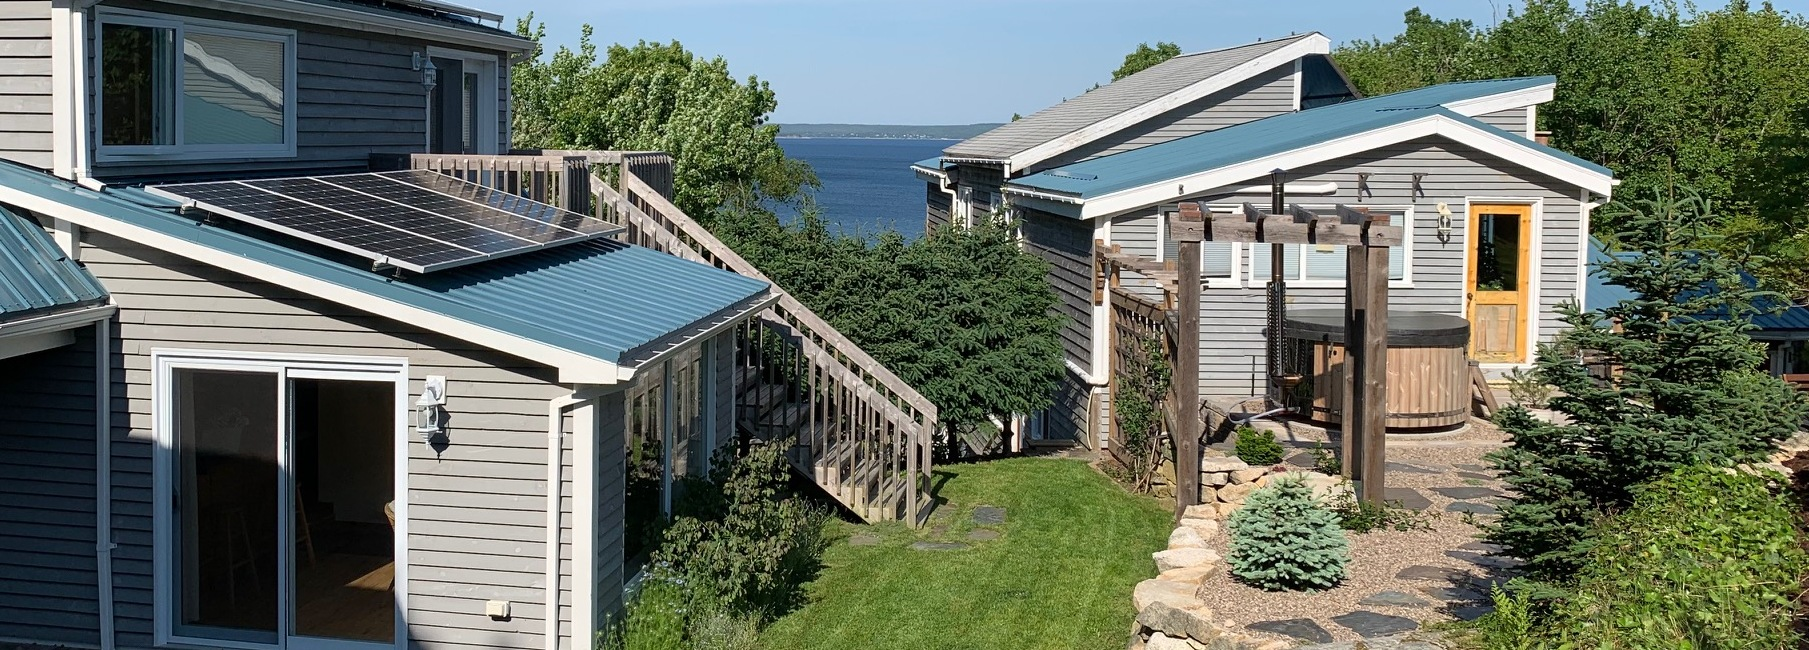
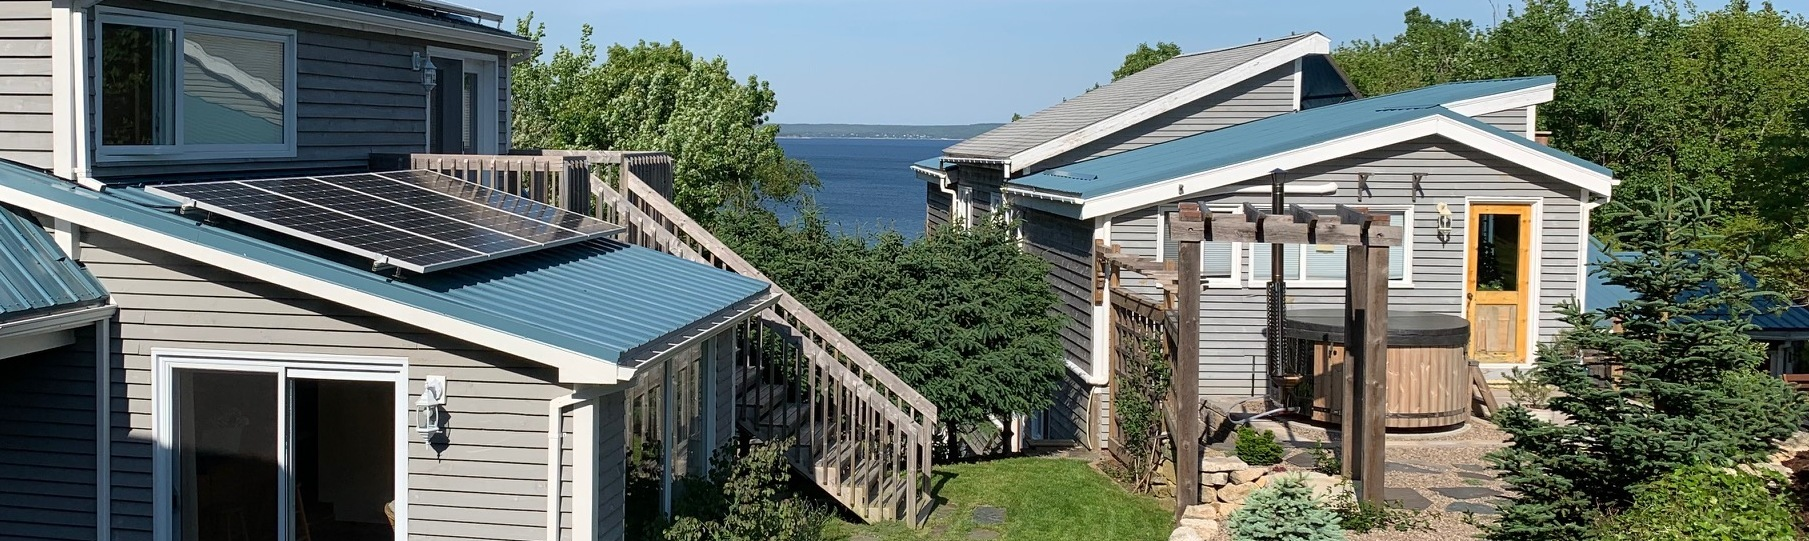
Convert background images to next images

diff --git a/styles/Page.module.css b/styles/Page.module.css
@@ -4,72 +4,25 @@
   top: var(--nav-height);
 }
 
-.image_header {
+.banner_image_justify_left {
+  object-fit: cover;
+  object-position: 0 100%;
+}
+
+.banner_image_justify_center_left {
+  object-fit: cover;
+  object-position: 17% 100%;
+}
+
+.banner_image_justify_center {
+  object-fit: cover;
+  object-position: 50% 100%;
+}
+
+.banner_container {
   position: relative;
   width: 100%;
   height: var(--img-header-height);
-  background-image: url("/meadow_cropped.jpg");
-  background-size: cover;
-  bottom: 0;
-  margin: 0;
-  display: flex;
-  justify-content: center;
-  align-items: center;
-  color: white;
-  text-shadow: 0px 0px 4px #000000;
-}
-
-.image_header_beach {
-  position: relative;
-  width: 100;
-  height: var(--img-header-height);
-  background-image: url("/beach_cropped.jpg");
-  background-size: cover;
-  bottom: 0;
-  margin: 0;
-  display: flex;
-  justify-content: center;
-  align-items: center;
-  color: white;
-  text-shadow: 0px 0px 4px #000000;
-}
-
-.image_header_surf {
-  position: relative;
-  width: 100%;
-  height: var(--img-header-height);
-  background-image: url("/surf_cropped.jpg");
-  background-size: cover;
-  bottom: 0;
-  margin: 0;
-  display: flex;
-  justify-content: center;
-  align-items: center;
-  color: white;
-  text-shadow: 0px 0px 4px #000000;
-}
-
-.image_header_longboard {
-  position: relative;
-  width: 100%;
-  height: var(--img-header-height);
-  background-image: url("/longboard_cropped.jpg");
-  background-size: cover;
-  bottom: 0;
-  margin: 0;
-  display: flex;
-  justify-content: center;
-  align-items: center;
-  color: white;
-  text-shadow: 0px 0px 4px #000000;
-}
-
-.image_header_rental {
-  position: relative;
-  width: 100%;
-  height: var(--img-header-height);
-  background-image: url("/rental_cropped.jpg");
-  background-size: cover;
   bottom: 0;
   margin: 0;
   display: flex;
@@ -101,70 +54,6 @@
   .action_items {
     font-size: 2rem;
     margin: 2rem;
-  }
-}
-
-@media (max-width: 1200px) {
-  .image_header_rental {
-    position: relative;
-    width: 100%;
-    height: var(--img-header-height);
-    background-image: url("/rental_tablet.jpg");
-    background-size: cover;
-    bottom: 0;
-    margin: 0;
-    display: flex;
-    justify-content: center;
-    align-items: center;
-    color: white;
-    text-shadow: 0px 0px 4px #000000;
-  }
-}
-
-@media (max-width: 600px) {
-  .image_header_longboard {
-    position: relative;
-    width: 100%;
-    height: var(--img-header-height);
-    background-image: url("/longboard_mobile.jpg");
-    background-size: cover;
-    bottom: 0;
-    margin: 0;
-    display: flex;
-    justify-content: center;
-    align-items: center;
-    color: white;
-    text-shadow: 0px 0px 4px #000000;
-  }
-
-  .image_header_surf {
-    position: relative;
-    width: 100%;
-    height: var(--img-header-height);
-    background-image: url("/surf_mobile.jpg");
-    background-size: cover;
-    bottom: 0;
-    margin: 0;
-    display: flex;
-    justify-content: center;
-    align-items: center;
-    color: white;
-    text-shadow: 0px 0px 4px #000000;
-  }
-
-  .image_header_rental {
-    position: relative;
-    width: 100%;
-    height: var(--img-header-height);
-    background-image: url("/rental_mobile.jpg");
-    background-size: cover;
-    bottom: 0;
-    margin: 0;
-    display: flex;
-    justify-content: center;
-    align-items: center;
-    color: white;
-    text-shadow: 0px 0px 4px #000000;
   }
 }
 

diff --git a/pages/about.jsx b/pages/about.jsx
@@ -10,12 +10,22 @@ export async function getStaticProps() {
 export default function About() {
   return (
     <div className={styles.container}>
-      <div className={styles.image_header_longboard}></div>
+      <div className={styles.banner_container}>
+        <Image
+          width={3840}
+          height={1101}
+          layout="fill"
+          src={"/longboard_cropped.jpg"}
+          alt={
+            "Person sitting on a long surfboard in green, calm water, viewed from above"
+          }
+          className={styles.banner_image_justify_center}
+        />
+      </div>{" "}
       <div className={styles.content_title}>
         <h1>About Me</h1>
         <hr className={styles.hr} />
       </div>
-
       <div className={styles.page_content}>
         <h2>Zenovia Ursuliak MD, PhD, FRCPC</h2>
         <p>
@@ -51,7 +61,6 @@ export default function About() {
           nature, my most precious medicine.
         </p>
       </div>
-
       <div className={styles.page_grid}>
         <div className={styles.image}>
           <Image

diff --git a/pages/contact.jsx b/pages/contact.jsx
@@ -1,5 +1,6 @@
 import styles from "../styles/Page.module.css";
 import { ContactForm } from "../components/ContactForm";
+import Image from "next/image";
 
 export async function getStaticProps() {
   return { props: { title: "| Contact", description: "Contact page" } };
@@ -8,7 +9,16 @@ export async function getStaticProps() {
 export default function Contact() {
   return (
     <div className={styles.container}>
-      <div className={styles.image_header_beach}></div>
+      <div className={styles.banner_container}>
+        <Image
+          width={4621}
+          height={1327}
+          layout="fill"
+          src={"/beach_cropped.jpg"}
+          alt={"Tropical beach at sunset"}
+          className={styles.banner_image_justify_center}
+        />
+      </div>
       <div className={styles.content_title}>
         <h1>Contact</h1>
         <hr className={styles.hr} />

diff --git a/pages/retreats.jsx b/pages/retreats.jsx
@@ -12,7 +12,18 @@ export async function getStaticProps() {
 export default function Retreats() {
   return (
     <div className={styles.container}>
-      <div className={styles.image_header}></div>
+      <div className={styles.banner_container}>
+        <Image
+          width={3648}
+          height={1124}
+          layout="fill"
+          src={"/meadow_cropped.jpg"}
+          alt={
+            "Green grassy meadow and several buildings on a hill overlooking the sea"
+          }
+          className={styles.banner_image_justify_left}
+        />
+      </div>
       <div className={styles.content_title}>
         <h1>Wellness Retreats</h1>
         <hr className={styles.hr} />

diff --git a/components/Splash/Splash.module.css b/components/Splash/Splash.module.css
@@ -1,16 +1,25 @@
-.container {
+.splash_container {
   position: relative;
   width: 100;
   top: var(--nav-height);
   height: calc(100vh - var(--nav-height));
-  background-image: url("/wave_cropped.jpg");
-  background-size: cover;
   bottom: 0;
   margin: 0;
   overflow-x: hidden;
   display: grid;
   padding: 1rem;
   grid-template: 1fr / 1fr;
+}
+
+.banner_image {
+  object-fit: cover;
+  object-position: 0 100%;
+}
+
+@media (max-width: 600px) {
+  .banner_image {
+    object-position: 10% 100%;
+  }
 }
 
 .action_items {
@@ -37,7 +46,7 @@
 }
 
 @media (min-width: 768px) {
-  .container {
+  .splash_container {
     grid-template: 30% 1fr / 50% 50%;
     padding: 3rem;
   }

diff --git a/components/Splash/Splash.jsx b/components/Splash/Splash.jsx
@@ -1,9 +1,20 @@
 import styles from "./Splash.module.css";
 import { NavButton } from "../NavButton";
+import Image from "next/image";
 
 const Splash = () => {
   return (
-    <div className={styles.container}>
+    <div className={styles.splash_container}>
+      <Image
+        width={4574}
+        height={2260}
+        layout="fill"
+        src={"/wave_cropped.jpg"}
+        alt={
+          "Barelling wave crashing in blue-green water with an empty beach in the background"
+        }
+        className={styles.banner_image}
+      />
       <div className={styles.action_items}>
         <NavButton page="retreats">Explore retreats</NavButton>
       </div>

diff --git a/pages/accommodations.jsx b/pages/accommodations.jsx
@@ -11,7 +11,16 @@ export async function getStaticProps() {
 export default function Accommodations() {
   return (
     <div className={styles.container}>
-      <div className={styles.image_header_rental}></div>
+      <div className={styles.banner_container}>
+        <Image
+          width={1809}
+          height={650}
+          layout="fill"
+          src={"/rental_cropped.jpg"}
+          alt={"Two blue-roofed buildings on a hill overlooking the sea"}
+          className={styles.banner_image_justify_center}
+        />
+      </div>
       <div className={styles.content_title}>
         <h1>Accommodations</h1>
         <hr className={styles.hr} />

diff --git a/pages/coaching.jsx b/pages/coaching.jsx
@@ -9,7 +9,16 @@ export async function getStaticProps() {
 export default function Coaching() {
   return (
     <div className={styles.container}>
-      <div className={styles.image_header_surf}></div>
+      <div className={styles.banner_container}>
+        <Image
+          width={3264}
+          height={1002}
+          layout="fill"
+          src={"/surf_cropped.jpg"}
+          alt={"Silouetted person with a surfboard by the sea"}
+          className={styles.banner_image_justify_center_left}
+        />
+      </div>
       <div className={styles.content_title}>
         <h1>Coaching</h1>
         <hr className={styles.hr} />
